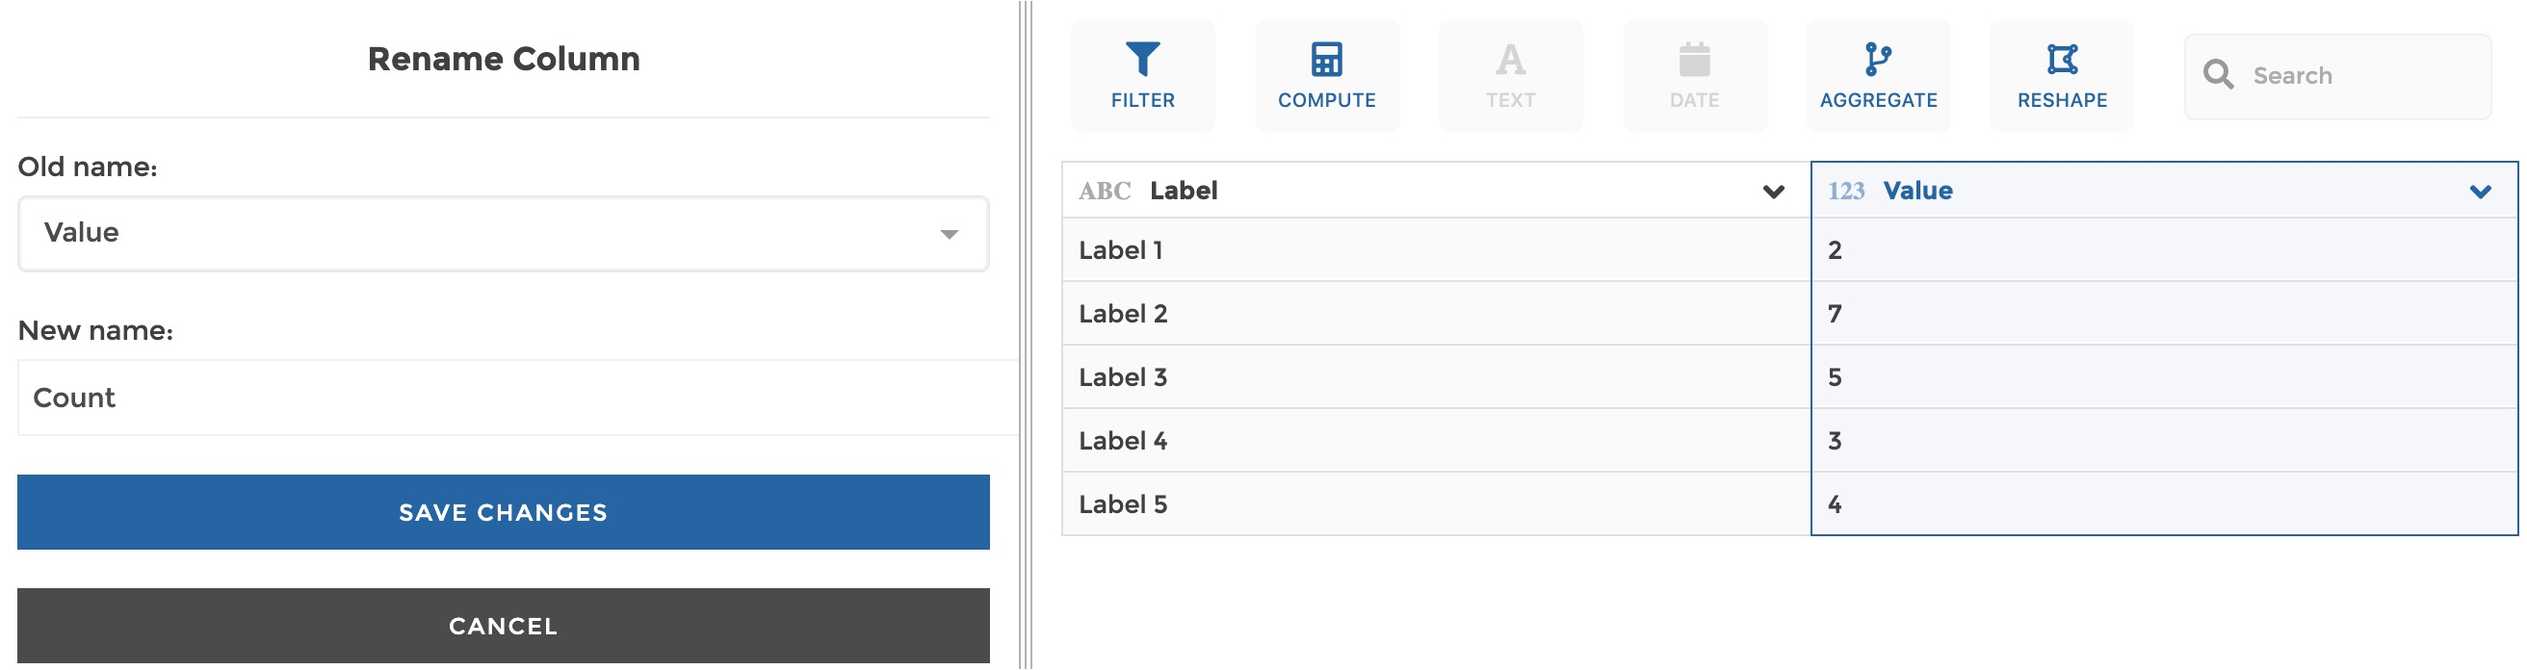
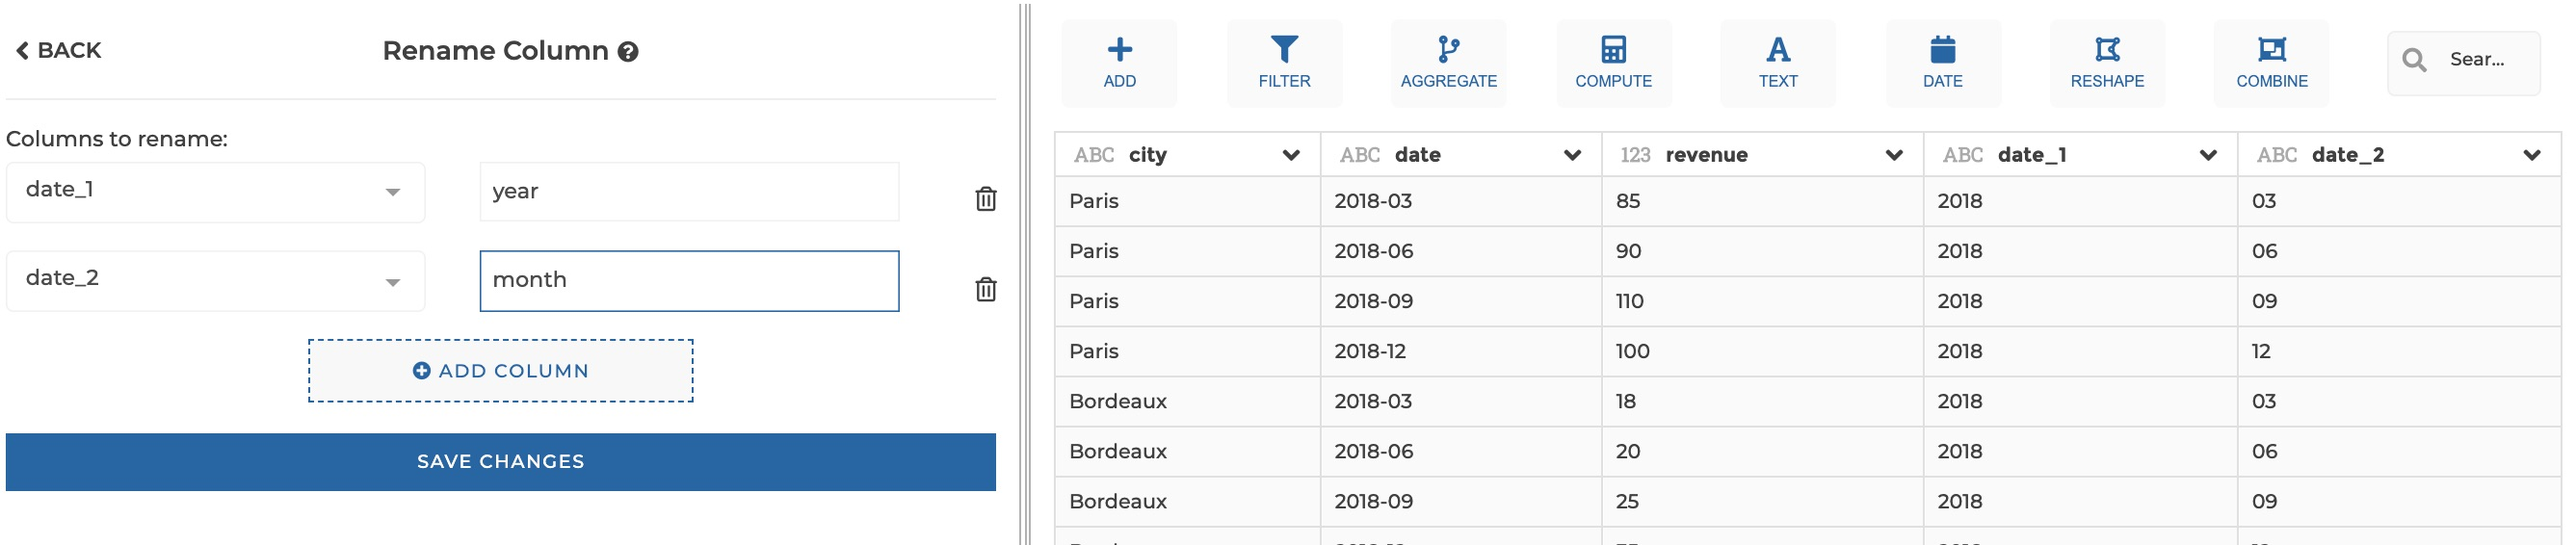
rename multiple columns at once :: update doc

diff --git a/docs/_docs/tech/steps.md b/docs/_docs/tech/steps.md
@@ -1741,13 +1741,37 @@ always increases by 1 at most).
 
 ### `rename` step
 
-Rename a column.,
+Rename one or several columns.
+The `toRename` parameter takes as input a list of 2-elements lists in the form
+['oldColumnName', 'newColumnName'].
 
 ```javascript
 {
     name: 'rename',
-    oldname: 'old-column-name',
-    newname: 'new-column-name'
+    toRename: [
+      ['oldCol1', 'newCol1'] // The first value is the column to be renamed, the second is the new column name
+      ['oldCol2', 'newCol2']
+    ]
+}
+```
+
+**Deprecated note:**
+
+The `oldname` and `newnname` parameters are deprecated and are support only for
+retrocompatibility purposes.
+When this step was first created, only 1 column at a time could be renamed, and
+the step was configured via 2 parameters, `oldname` and `newnname`, that are now
+deprecated and supported only for retrocompatibility purposes.
+An old-fashioned step with `oldname` set to 'old' and `newname` set to 'new'
+is equivalent to a new-fashioned step with `toRename` parameter set to ['old', 'new'].
+
+So an old-fashioned step looks like this:
+
+```javascript
+{
+    name: 'rename',
+    oldname: 'old-column-name', // optional and deprecated
+    newname: 'new-column-name'  // optional and deprecated
 }
 ```
 

diff --git a/docs/_docs/user-interface/rename.md b/docs/_docs/user-interface/rename.md
@@ -21,9 +21,8 @@ You can use this step to rename a column.
 
 <img src="../../img/docs/user-interface/rename_step_form.jpg" width="350" />
 
-- `Old name`: the original column name
-
-- `New name`: the new column name
+- `Columns to rename`: you can specify one or more columns to rename, with their
+  corresponding new column name
 
 #### Example
 
